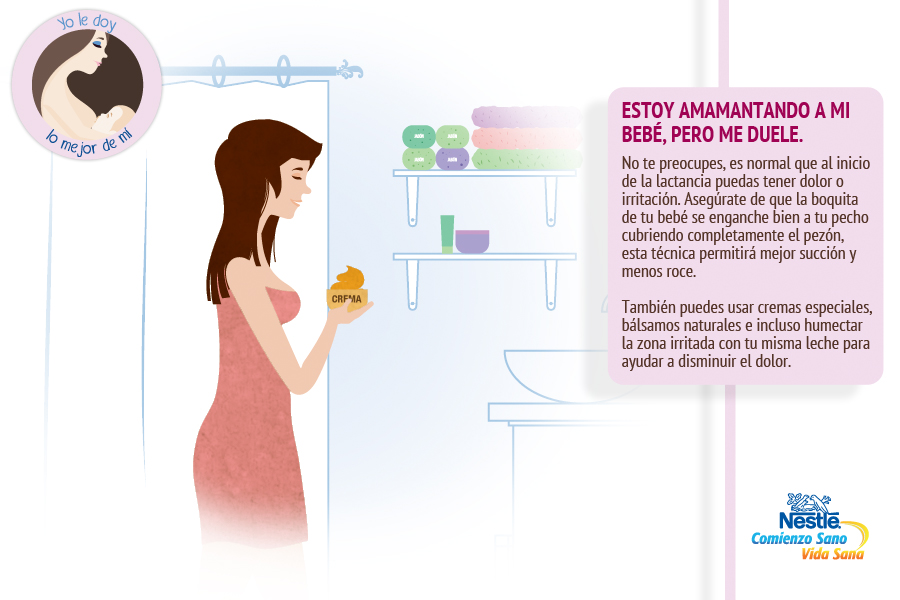
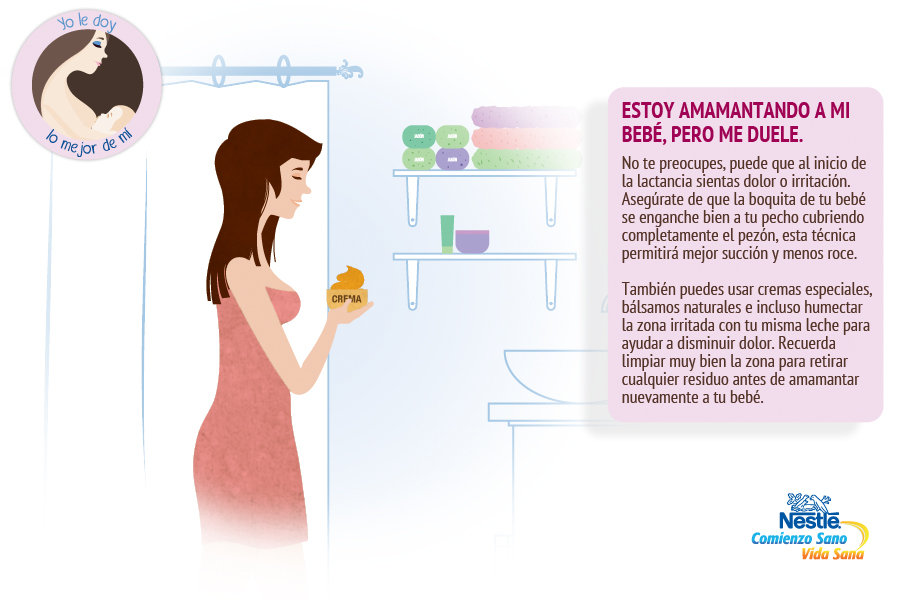
Correciones de texto, tip 1 ya se puede pinear, nuevas imágenes

Changed region(s): [[0.6533, 0.24, 0.9956, 1.0], [0.7778, 0.0, 0.8089, 0.15]]

diff --git a/index.html b/index.html
@@ -129,7 +129,7 @@
 <script>!function(d,s,id){var js,fjs=d.getElementsByTagName(s)[0],p=/^http:/.test(d.location)?'http':'https';if(!d.getElementById(id)){js=d.createElement(s);js.id=id;js.src=p+'://platform.twitter.com/widgets.js';fjs.parentNode.insertBefore(js,fjs);}}(document, 'script', 'twitter-wjs');</script>
 				</li>
 				<li class="share pinterest" id="pinterest">
-					<a href="//pinterest.com/pin/create/button/?url=http://publicislead.com/lactancia/#uno&media=http://publicislead.com/lactancia/share_img/tip1.jpg&description=Amamantar es un esfuerzo que vale la pena. Éste es uno de los prácticos consejos de Nestlé que te ayudarán a disfrutar de una lactancia exitosa junto a tu bebé. Amamanta, hazlo por los dos." data-pin-do="buttonPin" data-pin-config="none"><img src="//assets.pinterest.com/images/pidgets/pin_it_button.png" /></a>
+					<a href="//pinterest.com/pin/create/button/?url=http://publicislead.com/lactancia/%23uno&media=http://publicislead.com/lactancia/share_img/tip1.jpg&description=Amamantar es un esfuerzo que vale la pena. Éste es uno de los prácticos consejos de Nestlé que te ayudarán a disfrutar de una lactancia exitosa junto a tu bebé. Amamanta, hazlo por los dos." data-pin-do="buttonPin" data-pin-config="none"><img src="//assets.pinterest.com/images/pidgets/pin_it_button.png" /></a>
 				</li>
 			</ul><!-- social -->
 
@@ -150,7 +150,7 @@
 
 			<div class="texto tip2">
 				<h4>¿Qué puedo comer si estoy amamantando?</h4>
-				<p>Más que la cantidad, lo importante es que te preocupes de la calidad de los alimentos que consumes en esta etapa.Consume carbohidratos, carne, pollo, legumbres, huevo, y también pescados que contengan Omega 3.</p>
+				<p>Más que la cantidad, lo importante es que te preocupes de la calidad de los alimentos que consumes en esta etapa. Consume carbohidratos, carne, pollo, legumbres, huevo, y también pescados que contengan Omega 3.</p>
 
 				<p>Toma entre 8 y 12 vasos de agua diarios, dado que juega un rol importante en la generación de leche materna.</p>
 			</div><!-- texto -->
@@ -254,7 +254,7 @@
 				<h4>Estoy amamantando a mi bebé, pero me duele.</h4>
 				<p>No te preocupes, puede que al inicio de la lactancia sientas dolor o irritación. Asegúrate de que la boquita de tu bebé se enganche bien a tu pecho cubriendo completamente el pezón, esta técnica permitirá mejor succión y menos roce. </p>
 
-				<p>También puedes usar cremas especiales, bálsamos naturales e incluso humectar la zona irritada con tu misma leche para ayudar a a disminuir dolor. Recuerda limpiar muy bien la zona para retirar cualquier residuo antes de amamantar nuevamente a tu bebé.</p>
+				<p>También puedes usar cremas especiales, bálsamos naturales e incluso humectar la zona irritada con tu misma leche para ayudar a disminuir dolor. Recuerda limpiar muy bien la zona para retirar cualquier residuo antes de amamantar nuevamente a tu bebé.</p>
 			</div><!-- texto -->
 
 			<ul class="social">
@@ -321,7 +321,7 @@
   link=http://publicislead.com/lactancia/%23cinco&
   picture=http://publicislead.com/lactancia/share_img/tip5.jpg&
   name=A%20veces%20me%20canso%20y%20estoy%20inc%C3%B3moda%20mientras%20estoy%20amamantando.&
-  caption=Tip%201&
+  caption=Tip%205&
   description=Amamantar%20es%20un%20esfuerzo%20que%20vale%20la%20pena.%20%C3%89ste%20es%20uno%20de%20los%20pr%C3%A1cticos%20consejos%20de%20Nestl%C3%A9%20que%20te%20ayudar%C3%A1n%20a%20disfrutar%20de%20una%20lactancia%20exitosa%20junto%20a%20tu%20beb%C3%A9.%20Amamanta%2C%20hazlo%20por%20los%20dos.&
   redirect_uri=http://publicislead.com/lactancia/%23cinco" >
 						<span>facebook</span>
